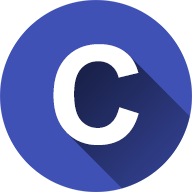
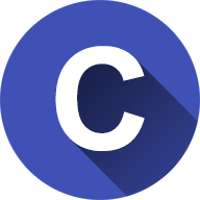
Resize image and fix og:type

diff --git a/index.html b/index.html
@@ -6,7 +6,7 @@
     <link rel="stylesheet" href="https://cdnjs.cloudflare.com/ajax/libs/onepage-scroll/1.3.1/onepage-scroll.min.css">
     <link rel="stylesheet" href="./styles.css">
     <meta property="og:title" content="Coloso" />
-    <meta property="og:type" content="Aplicación para Android" />
+    <meta property="og:type" content="website" />
     <meta property="og:image" content="https://pedronalbert.github.io/coloso-web/images/appicon.png" />
     <meta property="og:url" content="https://pedronalbert.github.io/coloso-web" />
     <meta property="og:description" content="Coloso es una herramienta para League of Legends que te permite consultar estadisticas, juegos en curso, builds profesionales y mucho más.">
